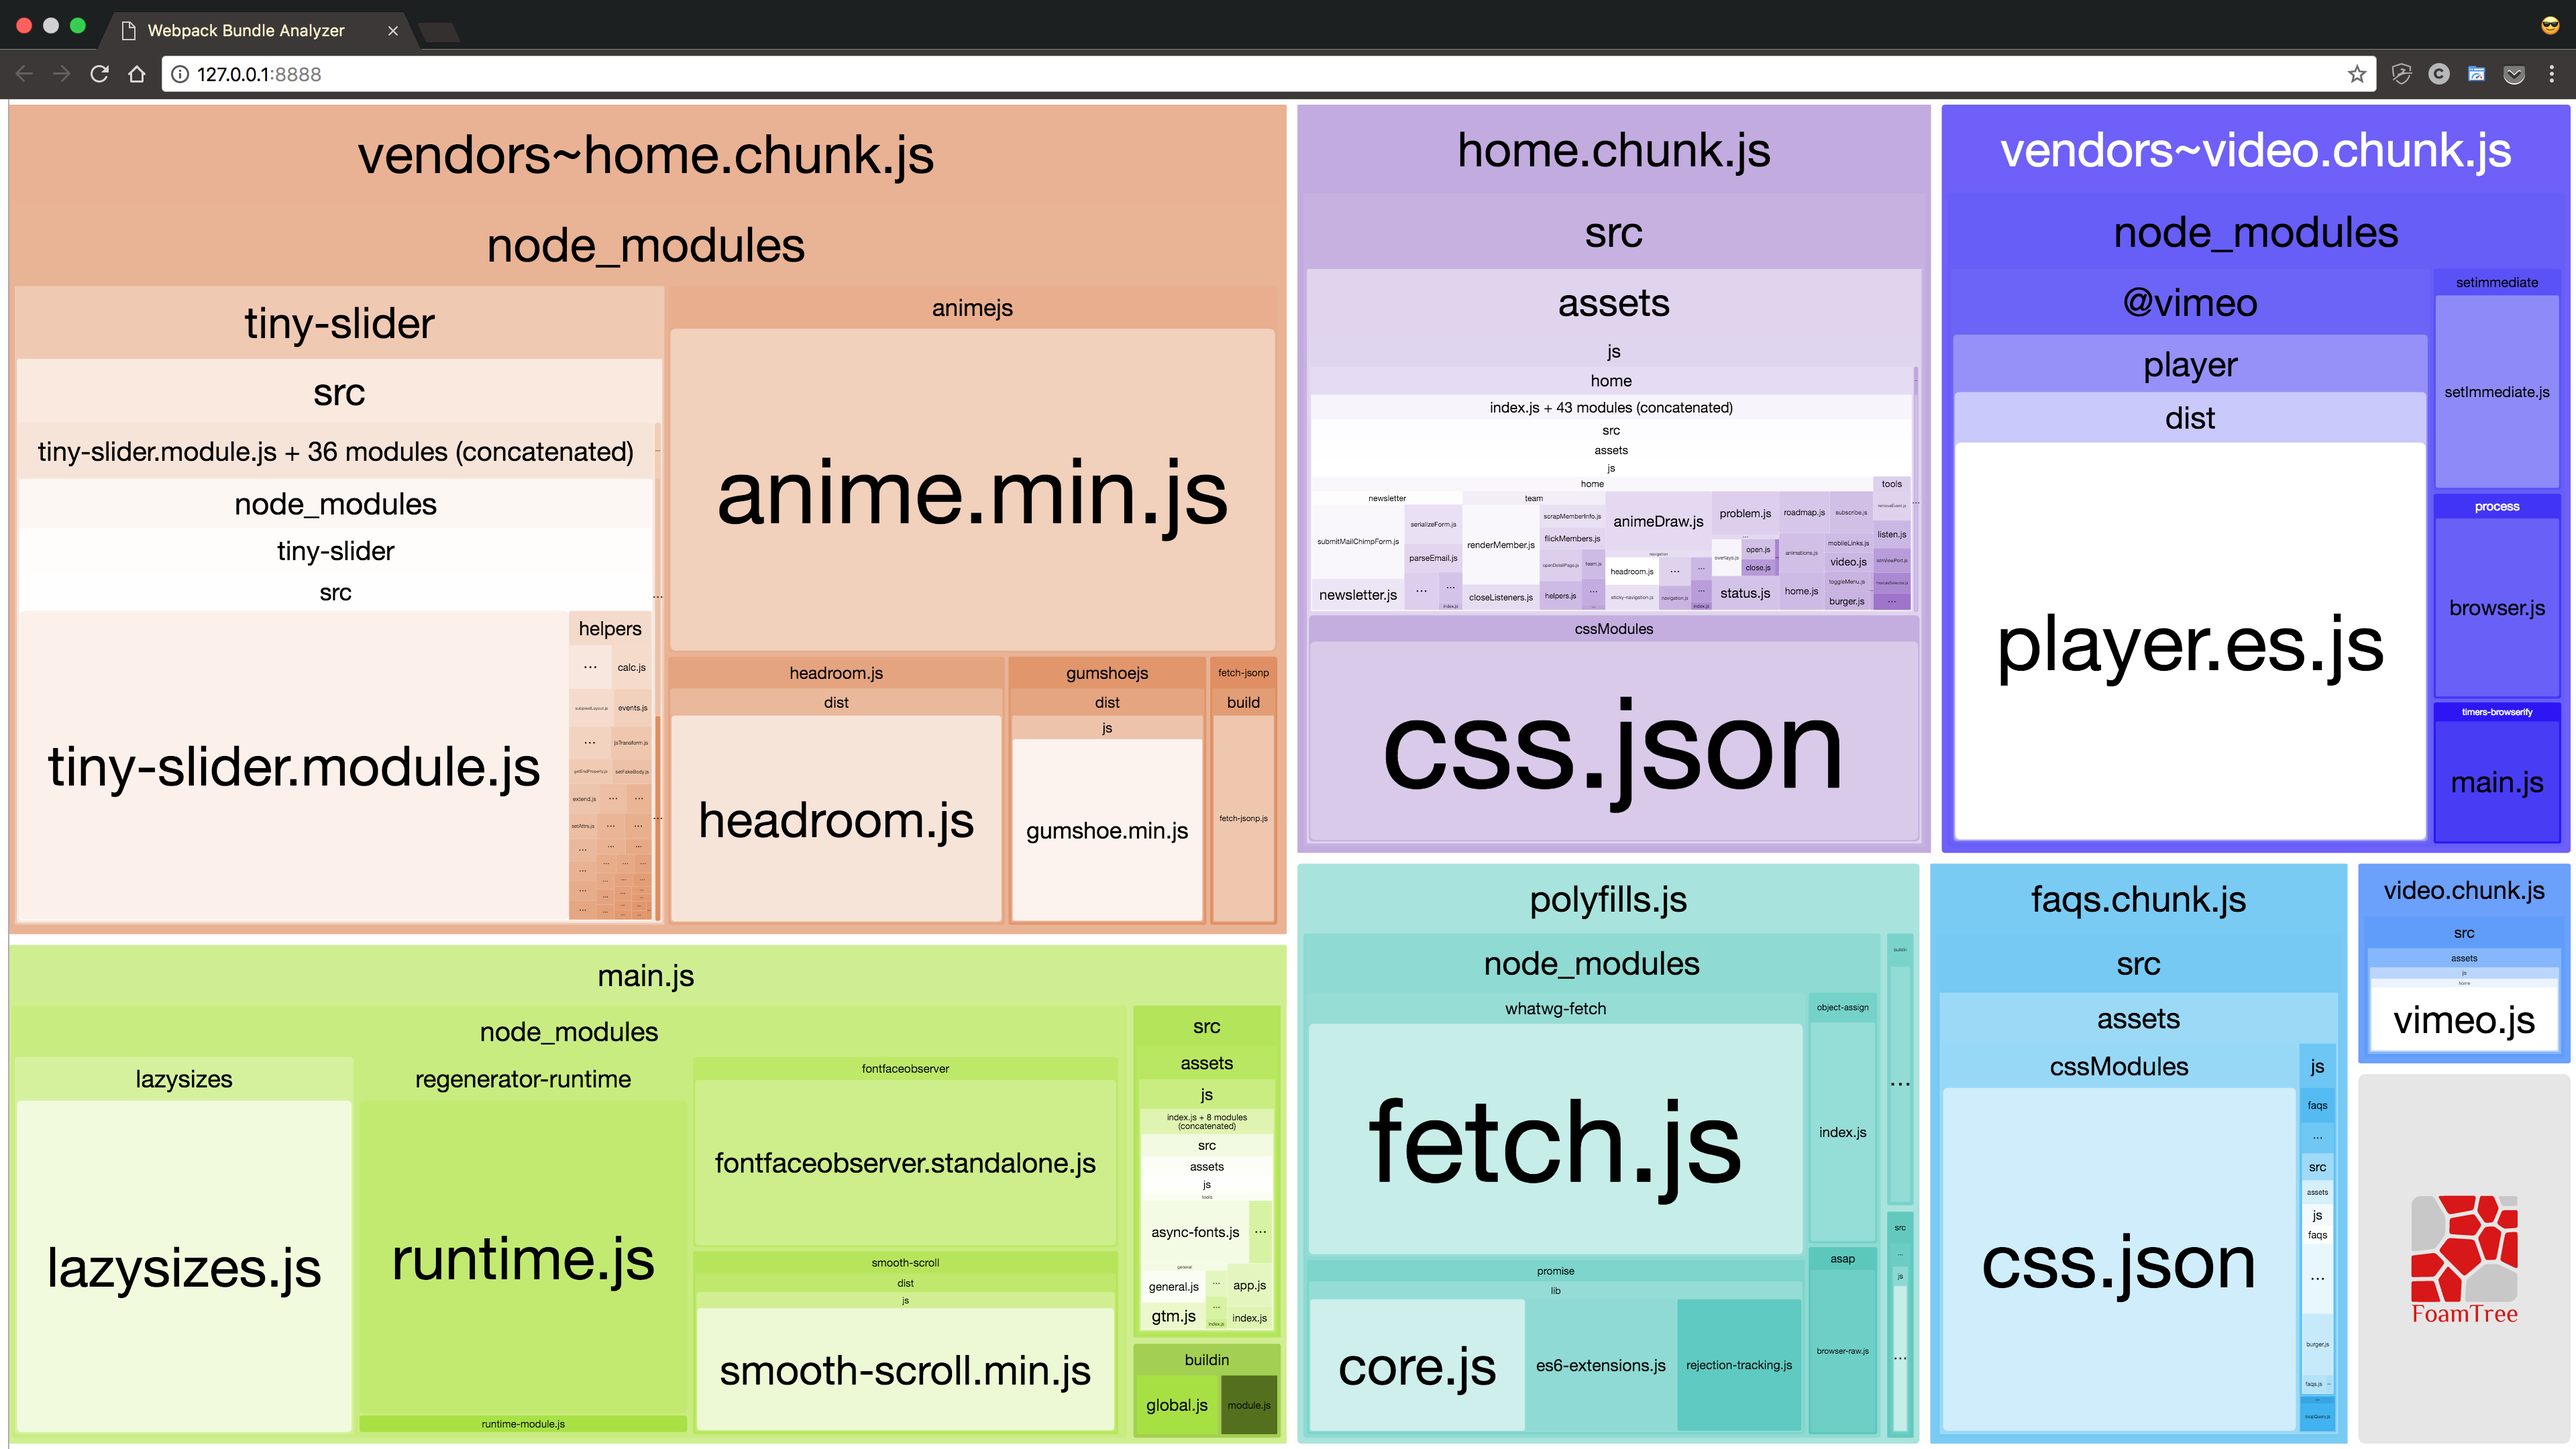
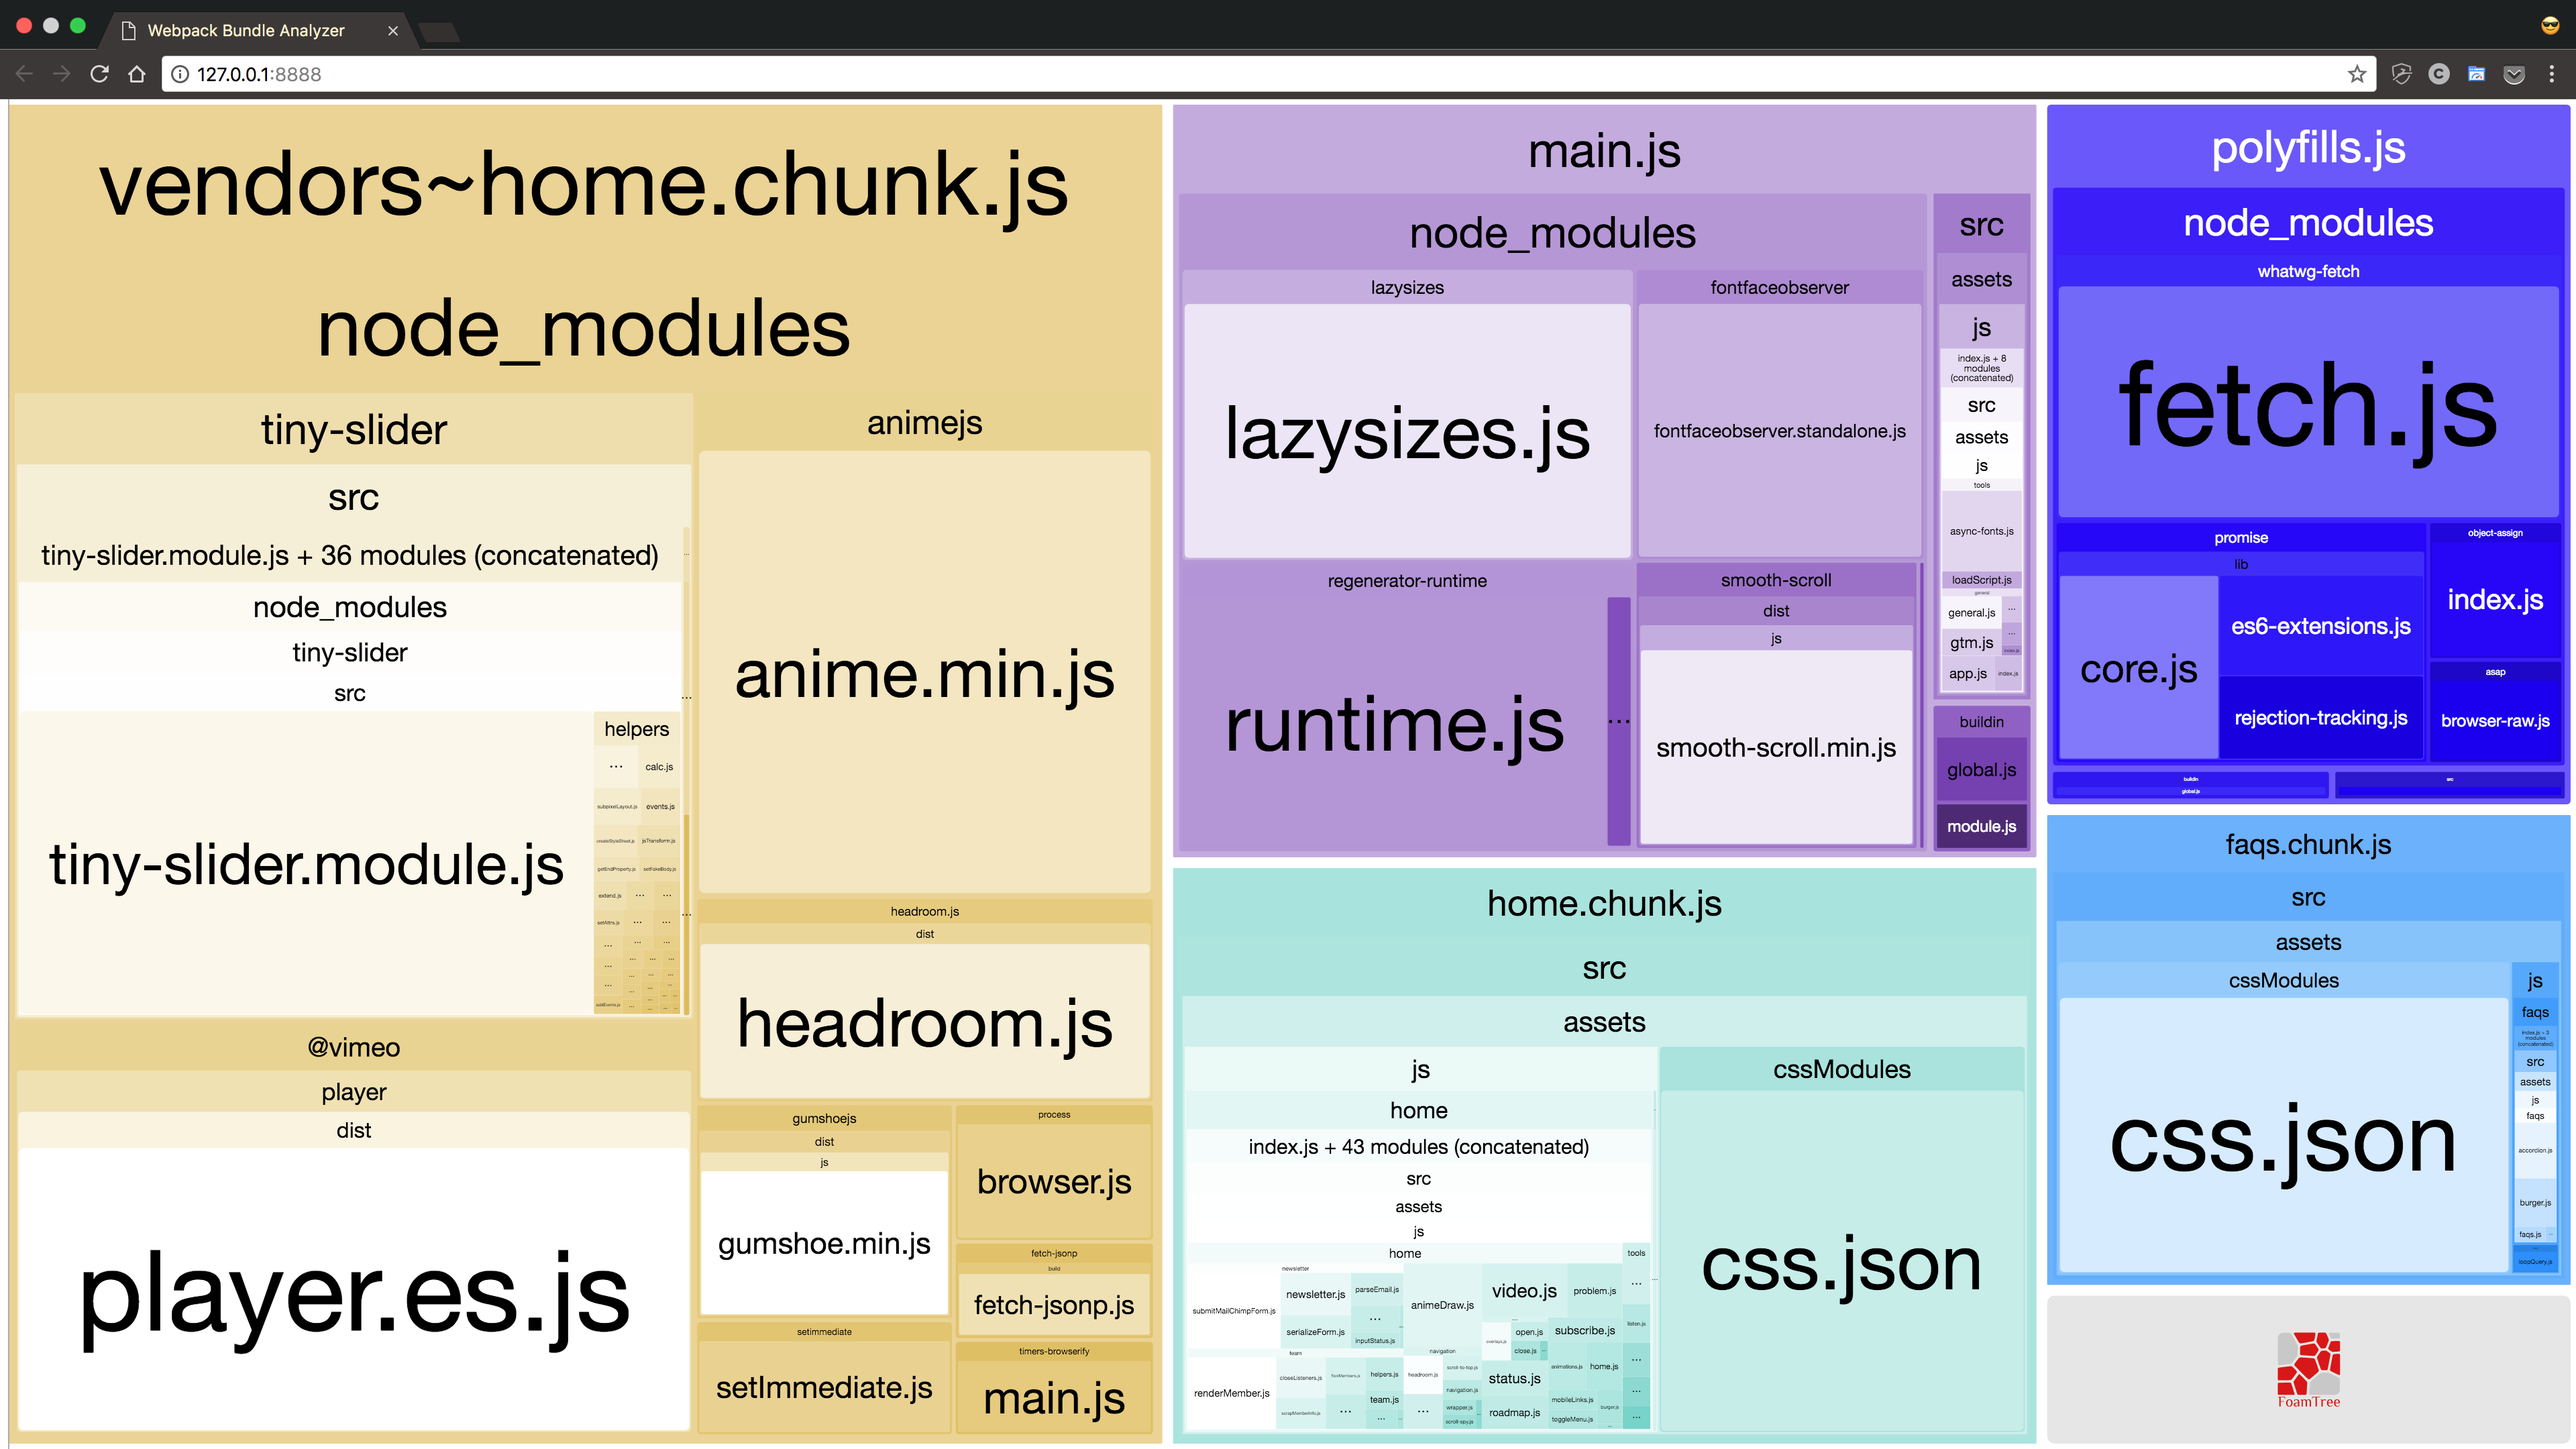
merging home back together

diff --git a/src/assets/js/home/video.js b/src/assets/js/home/video.js
@@ -1,13 +1,27 @@
+import Player from '@vimeo/player'
 import { home } from 'styles'
 
 const video = () => {
   const { intro } = home
   const button = document.querySelector(`.${intro.button}`)
 
-  button.addEventListener('click', () => {
-    import(/* webpackChunkName: "video" */ './vimeo').then(vimeoPlayer => {
-      vimeoPlayer.default(button)
+  button.addEventListener('click', async event => {
+    const id = button.getAttribute('data-id')
+    const wrapper = document.querySelector(`.${intro.iframe}`)
+
+    const vimeo = document.querySelector('#vimeo-player')
+
+    const player = new Player(vimeo, {
+      id,
+      title: false,
+      autoplay: true,
+      byline: false,
     })
+    await player.play()
+    // Button pls die in peace now...
+    button.parentNode.removeChild(button)
+    // responsive iframe show yourself!
+    wrapper.setAttribute('style', 'display: block')
   })
 }
 
